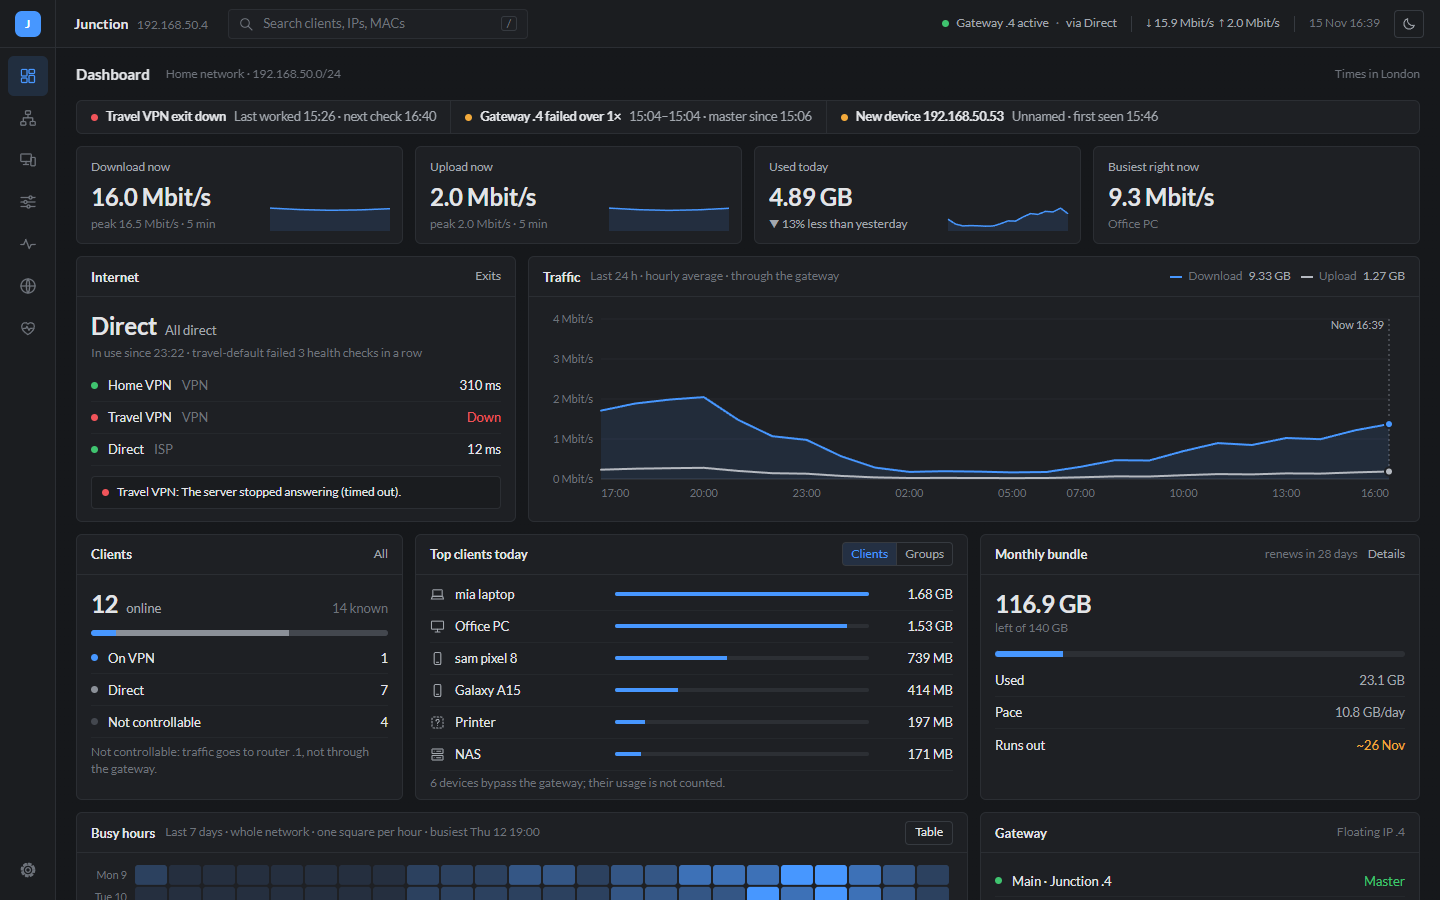
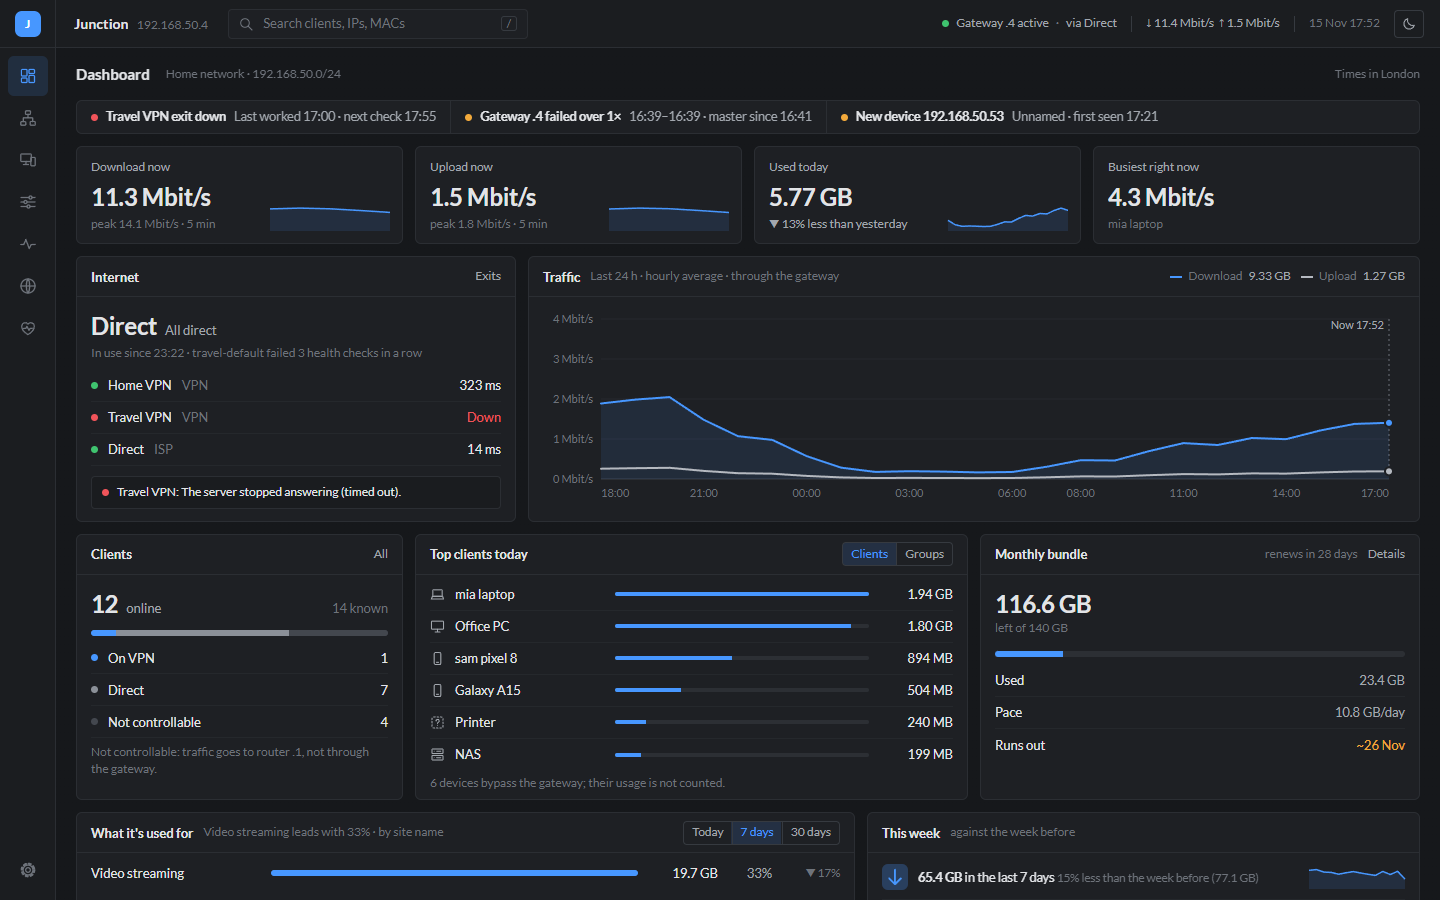
Analysis: what the network is used for, this week, where traffic went; hover popups everywhere; more motion
- Categories (video, social, messaging, AI & developer tools, gaming, music,
  updates, cloud, speed tests, browsing, no site name) from the site names,
  for the network and each device, today / 7 / 30 days, with top sites and
  devices; comparisons only when the period before is inside the history.
- This week: total, biggest change, top device, busiest day and hour, new
  devices, top category and VPN share, against the week before when there is one.
- Where traffic went per day by VPN exit (profiles added up per exit), events
  per day, each device's week by hour, 7-day mini bars in the Clients table.
- Every title becomes the app's own tooltip; gateway state segments, topology
  nodes and the top bar's live rates have detailed popups.
- Sliding highlights in toggles and tabs, lists that reorder smoothly, new
  events that slide in, an activity indicator, charts that morph on update.
- API: /api/categories, /api/devices/daily, /api/traffic?device=.
- README tour from the sample household.

diff --git a/web/src/screens/Analysis.tsx b/web/src/screens/Analysis.tsx
@@ -40,12 +40,22 @@ const CAT_HELP: Record<string, string> = {
 };
 
 /** Ranked bars of categories; hover for the details, click to open them. */
+/** "YYYY-MM-DD" plus n days. */
+const addDay = (k: string, n: number) => {
+  const d = new Date(`${k}T00:00:00Z`);
+  d.setUTCDate(d.getUTCDate() + n);
+  return d.toISOString().slice(0, 10);
+};
+/** A comparison is fair only when the whole period before is inside the site history. */
+const canCompare = (v: CategoriesView) => !!v.since && v.since <= addDay(v.from, -v.days);
+
 function CategoryList({ v, device }: { v: CategoriesView; device?: string }) {
   const [open, setOpen] = useState<string | null>(null);
   const cats = v.categories.filter((c) => c.bytes > 0);
   const max = Math.max(1, ...cats.map((c) => c.bytes));
   const flip = useFlip(cats.map((c) => c.key).join());
   const prevLabel = v.days === 1 ? "yesterday" : `the ${v.days} days before`;
+  const compare = canCompare(v);
   if (!cats.length)
     return (
       <div className="note" style={{ padding: "10px 0" }}>
@@ -55,7 +65,7 @@ function CategoryList({ v, device }: { v: CategoriesView; device?: string }) {
   return (
     <div className="cats" ref={flip}>
       {cats.map((c) => {
-        const ch = change(c.bytes, c.prev);
+        const ch = compare ? change(c.bytes, c.prev) : null;
         const tip = [
           `${c.name}: ${bytes(c.bytes)}, ${pctOf(c.bytes, v.total)}% of all`,
           ...(CAT_HELP[c.key] ? [CAT_HELP[c.key]] : []),
@@ -71,7 +81,7 @@ function CategoryList({ v, device }: { v: CategoriesView; device?: string }) {
                 .map((d) => `${d.name} ${bytes(d.bytes)}`)
                 .join(", ")}`
             : "",
-          `${prevLabel[0].toUpperCase()}${prevLabel.slice(1)}: ${bytes(c.prev)}`,
+          compare ? `${prevLabel[0].toUpperCase()}${prevLabel.slice(1)}: ${bytes(c.prev)}` : "",
           "Click for more",
         ]
           .filter(Boolean)
@@ -223,9 +233,13 @@ export function CategoriesPanel() {
         )}
         {v && (
           <div className="note" style={{ marginTop: 6 }}>
-            {bytes(v.total)} with a site name or address · change against{" "}
-            {days === 1 ? "yesterday" : `the ${days} days before`} · hover a row
-            for its sites and devices
+            {bytes(v.total)} with a site name or address ·{" "}
+            {canCompare(v)
+              ? `change against ${days === 1 ? "yesterday" : `the ${days} days before`}`
+              : v.since
+                ? `sites counted since ${dayName(v.since)}: changes show once there's a full ${days === 1 ? "day" : `${days} days`} before to compare with`
+                : "no site history yet"}{" "}
+            · hover a row for its sites and devices
           </div>
         )}
       </div>
@@ -284,11 +298,17 @@ export function InsightsPanel({
     side?: React.ReactNode;
     tip?: string;
   }[] = [];
+  // Comparisons need the whole week before inside the history (Junction may have started recently).
+  let prevOk = false;
+  let startDay: string | null = null;
 
   if (daily) {
     const tot = daily.days.map((_, i) =>
       Object.values(daily.devices).reduce((s, v) => s + (v[i] ?? 0), 0),
     );
+    prevOk = tot[0] > 0;
+    const firstI = tot.findIndex((x) => x > 0);
+    startDay = firstI >= 0 ? daily.days[firstI] : null;
     const now = tot.slice(7).reduce((a, b) => a + b, 0);
     const prev = tot.slice(0, 7).reduce((a, b) => a + b, 0);
     const ch = change(now, prev);
@@ -298,9 +318,11 @@ export function InsightsPanel({
         <>
           <b>{bytes(now)}</b> in the last 7 days{" "}
           <span className="t3">
-            {ch && prev > 0
+            {prevOk && ch && prev > 0
               ? `${ch.dir === "flat" ? "about the same as" : `${ch.t.slice(2)} ${ch.dir === "up" ? "more than" : "less than"}`} the week before (${bytes(prev)})`
-              : ""}
+              : startDay && startDay > daily.days[7]
+                ? `counted since ${dayName(startDay)}`
+                : ""}
           </span>
         </>
       ),
@@ -326,7 +348,7 @@ export function InsightsPanel({
       if (!best || Math.abs(Math.log(r)) > Math.abs(Math.log(best.r)))
         best = { id, now: n, prev: p, r };
     }
-    if (best && Math.abs(Math.log(best.r)) > Math.log(1.15)) {
+    if (prevOk && best && Math.abs(Math.log(best.r)) > Math.log(1.15)) {
       const up = best.r > 1;
       const v = daily.devices[best.id];
       items.push({
@@ -336,11 +358,11 @@ export function InsightsPanel({
             <b>{name(best.id)}</b> used{" "}
             {up
               ? best.r >= 1.95
-                ? `${best.r.toFixed(1)}× as much`
-                : `${Math.round((best.r - 1) * 100)}% more`
-              : `${Math.round((1 - best.r) * 100)}% less`}{" "}
+                ? `${best.r.toFixed(1)}× as much as`
+                : `${Math.round((best.r - 1) * 100)}% more than`
+              : `${Math.round((1 - best.r) * 100)}% less than`}{" "}
             <span className="t3">
-              than the week before · {bytes(best.now)} vs {bytes(best.prev)}
+              the week before · {bytes(best.now)} vs {bytes(best.prev)}
             </span>
           </>
         ),
@@ -415,7 +437,7 @@ export function InsightsPanel({
         <>
           <b>{top.name}</b> was {pctOf(top.bytes, cats.total)}% of it{" "}
           <span className="t3">
-            {cats.prevTotal > 0 ? `(${was}% the week before)` : ""}
+            {canCompare(cats) && cats.prevTotal > 0 ? `(${was}% the week before)` : ""}
           </span>
         </>
       ),
@@ -454,15 +476,15 @@ export function InsightsPanel({
     items.push({
       icon: "tunnel",
       text:
-        nowS === 0 && prevS === 0 ? (
+        nowS === 0 && (prevS === 0 || !prevOk) ? (
           <>
             Everything went <b>direct</b>{" "}
-            <span className="t3">· no VPN in the last two weeks</span>
+            <span className="t3">· no VPN {prevOk ? "in the last two weeks" : "this week"}</span>
           </>
         ) : (
           <>
             <b>{nowS}%</b> went through a VPN{" "}
-            <span className="t3">({prevS}% the week before)</span>
+            {prevOk && <span className="t3">({prevS}% the week before)</span>}
           </>
         ),
     });
@@ -472,7 +494,7 @@ export function InsightsPanel({
       <div className="hd">
         <h2 id="w-ins">This week</h2>
         <span className="t3" style={{ fontSize: 12 }}>
-          against the week before
+          {prevOk ? "against the week before" : startDay ? `counted since ${dayName(startDay)}` : ""}
         </span>
       </div>
       <div className="bd" style={{ padding: "2px 14px 6px" }}>
@@ -501,7 +523,14 @@ export function InsightsPanel({
 /** Internet: where traffic went, per day: each VPN exit and direct. */
 export function WhereTrafficWent({ o }: { o: Overview }) {
   const [table, setTable] = useState(false);
-  const usage = useFetch("usage-30", () => api.usage(30), 120000).data ?? [];
+  // Usage is recorded per outbound ("azure-psn", one per exit x profile): add it up per exit.
+  const raw = useFetch("usage-30", () => api.usage(30), 120000).data ?? [];
+  const exitOf = (tag: string) => (tag === "direct" ? tag : tag.split("-")[0]);
+  const usage = raw.map((u) => {
+    const byExit: Record<string, number> = {};
+    for (const [k, b] of Object.entries(u.byExit)) byExit[exitOf(k)] = (byExit[exitOf(k)] ?? 0) + b;
+    return { ...u, byExit };
+  });
   const keys = new Set<string>();
   usage.forEach((u) => Object.keys(u.byExit).forEach((k) => keys.add(k)));
   const exits = o.exits.map((e) => e.key).filter((k) => keys.has(k));

diff --git a/web/mock/fixtures.ts b/web/mock/fixtures.ts
@@ -1099,7 +1099,8 @@ export function categories(q: URLSearchParams, now = new Date()) {
       };
     })
     .sort((x, y) => y.bytes - x.bytes);
-  return { from: dayStr(from.y, from.m, from.d), to: today, days, total: Math.round(total), prevTotal: Math.round(prevTotal), categories: cats };
+  const s0 = addDays(c.y, c.m, c.d, -60); // the sample household has two months of sites
+  return { from: dayStr(from.y, from.m, from.d), to: today, days, since: dayStr(s0.y, s0.m, s0.d), total: Math.round(total), prevTotal: Math.round(prevTotal), categories: cats };
 }
 
 export function devicesDaily(q: URLSearchParams, now = new Date()) {

diff --git a/web/src/api/types.ts b/web/src/api/types.ts
@@ -299,5 +299,5 @@ export type CategoryUsage = {
   sites: { host: string; bytes: number }[]; // top 6
   devices: { id: string; name: string; bytes: number }[]; // top 5
 };
-export type CategoriesView = { from: string; to: string; days: number; total: number; prevTotal: number; categories: CategoryUsage[] };
+export type CategoriesView = { from: string; to: string; days: number; since: string /* first day with site history; "" = none */; total: number; prevTotal: number; categories: CategoryUsage[] };
 export type DevicesDaily = { days: string[]; devices: Record<string, number[]> };

diff --git a/categories.go b/categories.go
@@ -10,6 +10,7 @@ package main
 // GET /api/devices/daily?days=14 -> every device's bytes per day.
 
 import (
+	"database/sql"
 	"net"
 	"net/http"
 	"sort"
@@ -137,6 +138,7 @@ type CategoriesView struct {
 	From       string          `json:"from"` // first day, YYYY-MM-DD (local)
 	To         string          `json:"to"`
 	Days       int             `json:"days"`
+	Since      string          `json:"since"` // the first day with site history, "" = none: comparisons need the period before to be inside it
 	Total      int64           `json:"total"`
 	PrevTotal  int64           `json:"prevTotal"`
 	Categories []CategoryUsage `json:"categories"` // largest first; empty ones left out
@@ -181,6 +183,9 @@ func (s *State) categories(now time.Time, days int, dev string) (CategoriesView,
 	start := s.dayStart(now).AddDate(0, 0, -(days - 1))
 	prevStart := start.AddDate(0, 0, -days)
 	v := CategoriesView{From: day(start), To: day(now), Days: days, Categories: []CategoryUsage{}}
+	var since sql.NullString
+	s.store.db.QueryRow(`SELECT MIN(day) FROM hosts_day`).Scan(&since)
+	v.Since = since.String
 	type acc struct {
 		bytes, prev int64
 		sites       map[string]int64

diff --git a/categories_test.go b/categories_test.go
@@ -68,6 +68,9 @@ func TestCategoriesAndDaily(t *testing.T) {
 	if v.Categories[0].Devices[0].Name != "Laptop" || v.Categories[0].Sites[0].Host != "rr1.googlevideo.com" {
 		t.Fatalf("top of video: %s", b)
 	}
+	if v.Since != day(-30) {
+		t.Fatalf("since: %q, want %q", v.Since, day(-30))
+	}
 	only, _ := s.categories(now, 7, "bb")
 	if only.Total != 2.5e9 {
 		t.Fatalf("one device: %+v", only)

diff --git a/API.md b/API.md
@@ -313,3 +313,14 @@ New config keys (all optional): `gateway_ip` (default: keepalived's floating add
 - **Data**: `usageDays` (30–1000, default 400) and `sitesDays` (7–400, default 35) are what the daily clean-up keeps; the bundle's wire counts stay at least 100 days.
 
 `junctiond -print-listen` prints the configured `listen` address (safe-update.sh uses it to find the port). The in-app updater runs the release's own `gateway/safe-update.sh` when it has one.
+
+## v1.9: what it's used for, daily usage per device
+
+| Method | Path | |
+|---|---|---|
+| GET | `/api/categories?days=7[&device=id]` (1–200) | `CategoriesView` `{ from, to, days, since, total, prevTotal, categories: CategoryUsage[] }`: the sites seen over the last `days` (today counts as one) put in categories, largest first, each `{ key, name, bytes, prev, sites (top 6), devices (top 5) }`. `prev`/`prevTotal` are the same-length period before; `since` is the first day with site history, so a comparison is only fair when `from - days >= since`. |
+| GET | `/api/devices/daily?days=14` (1–60) | `{ days: ["YYYY-MM-DD"...], devices: { id: [bytes per day] } }`: what each device sent and received per day, oldest first, today last. |
+| GET | `/api/traffic?hours=168&device=id` | As `/api/traffic`, for one device. |
+
+Categories come from the site names Junction sees (DNS and TLS): each name is matched against a built-in list of domains (`categories.go`), from the most specific suffix. Keys: `video`, `social`, `messaging`, `ai` (AI and developer tools), `gaming`, `music`, `updates`, `cloud`, `speedtest`, `web` (any other name) and `unnamed` (traffic to an IP address with no name: not guessed). Site history is kept `sitesDays` (35 by default).
+

diff --git a/docs/faq.md b/docs/faq.md
@@ -10,6 +10,9 @@ Yes. Usage per device, limits, schedules, pausing and the Health page all work w
 **What does it know about my traffic?**
 Which device talked to which site (from DNS and TLS names), how much, and when. Never the content. Everything stays on the box: there's no cloud service and no telemetry.
 
+**How does it know what traffic is video, social media and so on?**
+From the site names: every name is matched against a built-in list of domains (YouTube's video servers count as video, WhatsApp's as messaging, and so on). Traffic to a bare IP address shows as "No site name" rather than a guess. If a site lands in the wrong category, open an issue or a pull request against `categories.go`.
+
 **Does it replace my router?**
 No. It sits next to it. Devices use Junction as their gateway (it can hand out addresses itself, or you change one setting on your router), and Junction sends traffic on to your router.
 
